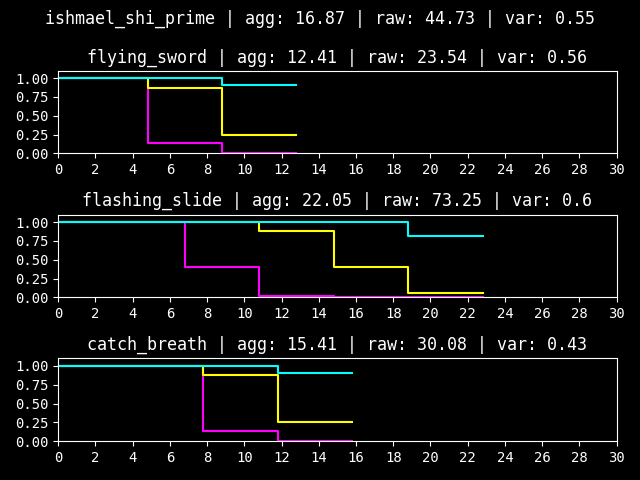
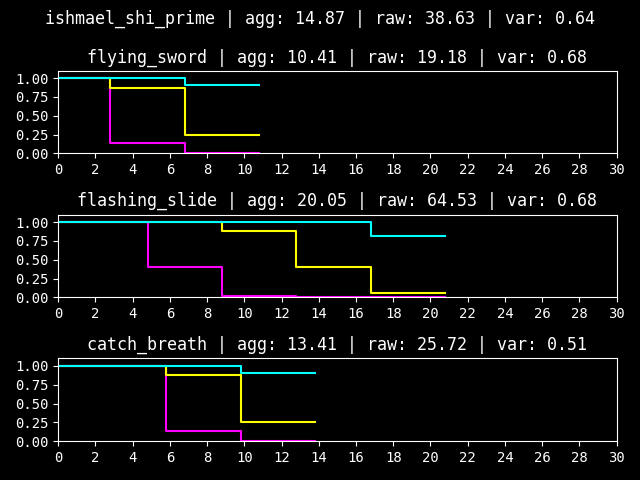
shi ish prime no snagharpoon

diff --git a/sinner.py b/sinner.py
@@ -47,9 +47,14 @@ class Sinner:
 		ax[2].set(ylim=(0, 1.1), xlim=(0, 30), yticks=np.arange(0, 1.1, 0.25), xticks=np.arange(0, 30.1, 2))
 		ax[2].set_title(f'{self.s3.name} | agg: {round(self.s3.aggregate, 2)} | raw: {round(self.s3.damage, 2)} | var: {round(self.s3.variance, 2)}')
 
-		self.aggregate = (2 * self.s1.aggregate + 2 * self.s2.aggregate + self.s3.aggregate) / 5
-		self.variance = (2 * self.s1.variance + 2 * self.s2.variance + self.s3.variance) / 5
-		self.damage = (2 * self.s1.damage + 2 * self.s2.damage + self.s3.damage) / 5
+		if self.name.endswith('_partial'):
+			self.aggregate = (2 * self.s1.aggregate + 2 * self.s2.aggregate) / 4
+			self.variance = (2 * self.s1.variance + 2 * self.s2.variance) / 4
+			self.damage = (2 * self.s1.damage + 2 * self.s2.damage) / 4
+		else:
+			self.aggregate = (2 * self.s1.aggregate + 2 * self.s2.aggregate + self.s3.aggregate) / 5
+			self.variance = (2 * self.s1.variance + 2 * self.s2.variance + self.s3.variance) / 5
+			self.damage = (2 * self.s1.damage + 2 * self.s2.damage + self.s3.damage) / 5
 		
 		fig.suptitle(self.gen_display_str())
 		fig.canvas.manager.set_window_title('Sinner Ultimate Scientific Analysis Model Of Generally Unknown Strategies')

diff --git a/main.py b/main.py
@@ -23,7 +23,7 @@ for file in files:
 	plt.savefig(f'charts/{sinner.name}.png')
 	plt.close()
 	sinners.append(sinner)
-	if not sinner.name.endswith('_weak') and not sinner.name.endswith('_prime'):
+	if not sinner.name.endswith('_weak') and not sinner.name.endswith('_prime') and not sinner.name.endswith('_partial'):
 		skills.append(sinner.s1)
 		skills.append(sinner.s2)
 		skills.append(sinner.s3)

diff --git a/index.md b/index.md
@@ -218,7 +218,7 @@ Cloud cutter.
 
 Contrary to intuition, G Gregor's clashes are virtually identical to Sevens Outis! This is plainly evident when comparing their roll charts and aggregates. The reason for this is, G Gregor has an entire 9 offense level over her, and a difference of 5 levels translates to 1 power in a clash. So even though Sevens Outis has an additional +2 power in every clash due to her skill effects, G Gregor just does that by default. So, in practice, if one of them can win a clash, it's very likely the other can as well. The purpose of this analogy is to emphasize that G Gregor is excellent at clashing. If he fails to win, which is relatively uncommon, his kit provides so much healing that he will generally be able to shrug off lost clashes with little to no consequence. This utility makes him better at pulling dangerous skills away from core DPS units than most other tanks, especially considering how they tend to be too slow to pull clashes. Furthermore, deliberately allowing him to get staggered and healing him up during low pressure effectively makes him immortal in later rounds, since he'll effectively have removed his own stagger thresholds. Piloting him feels like giving the team a regenerating frontal shield, enabling heavy damage payloads (e.g. Cloud Cutter) to land without risking a clash. Of course, he also enables Legerdemain spam, but, everyone knew that already. His numbers are great, he suffers no consequences, and he gives the team a huge amount of agency.
 
-If a weakness had to be chosen, it would be his damage. However, his raw damage is still higher than almost all of the units in lower tiers.
+Despite everything, his numbers aren't high enough for S tier.
 
 ---
 
@@ -269,9 +269,24 @@ The prime chart represents Don with Overbreathe's effect active. The activation 
 ![](charts/don_quixote_shi.png)
 ![](charts/don_quixote_shi_prime.png)
 
-Shi Don plays similarly to L Faust, where both have insanely high clash power but not enough damage to edge them into S tier. Shi Don exaggerates this behaviour, with even better clashes and worse damage. They both even have haste on S2 and an evade, causing them to behave extremely similarly. Shi Don's passive has a much less restrictive condition though, so obtaining haste from there is far more viable than L Faust's poise count requirement. Notably, she only has two stagger thresholds, making her more forgiving than intuition would suggest.
+Shi Don plays similarly to L Faust, where both have insanely high clash power but not enough damage to edge them into S tier. Shi Don exaggerates this behaviour, with even better clashes and worse damage. They both even have haste on S2 and an evade, causing them to behave extremely similarly. Shi Don's passive has a much less restrictive condition, so obtaining haste from there is far more viable than L Faust's poise count requirement. Notably, she only has two stagger thresholds, making her more forgiving than intuition would suggest.
 
 Terrible S1 aside, she also has worse damage than L Faust, and being marginally better at clashing doesn't quite compensate for that.
+
+---
+
+### A Tier: Ishmael - Shi Section 5
+
+The prime chart represents Ishmael with Flashing Strike's additional coins. Snagharpoon's passive is not included in the prime chart for ease of evaluating damage.
+
+![](charts/ishmael_shi.png)
+![](charts/ishmael_shi_prime.png)
+
+Above her health threshold, Shi Ishmael has the damage of Shi Don but not remotely as much clash power. However, dropping below half effectively gives her S tier numbers via a better Cloud Cutter. Having decent numbers on S1 provides a solid baseline damage output as well.
+
+Maintaining her prime state is impractical outside of Refraction Railway. Needing to go through at least one stagger forces a dead turn, and staying there often causes healing options to prioritize her, which may be awkward to manage. If one intends to play her without managing the threshold and trusting it to kick in when necessary, the other members of A tier may be more consistent options.
+
+Additionally, there is speculation that Shi Ishmael at UT2 may be more performant than Shi Ishmael at UT3. Since her S3 is not particularly strong, keeping it out of the skill pool may result in sleeker performance. A similar logic applies to KK Hong Lu.
 
 ---
 
@@ -284,7 +299,7 @@ Due to technical limitations, the normal chart should be used to evaluate clashe
 
 And so an interesting truth comes to light— Sevens Outis is generally worse at clashing than the low rarity clash god trio, and ties with G Gregor in terms of clash strength! But, she applies far more debuffs than the typical identity. Her presence in a team generally makes winning clashes for others easier, with the next turn paralysis on S1 and offense level down on S3. Having a high speed roll of 5-8, a high defense level of 41 and only one stagger threshold also allows her to take a similar role to G Gregor in pulling clashes and tanking the ones she loses.
 
-However, the damage attributed to her defense level down and weakness analyzed debuffs is generally not enough to compensate for her poor numbers, and having lots of effective health is generally not preferable to G Gregor's regen.
+However, the damage attributed to her defense level down and weakness analyzed debuffs is generally not enough to compensate for her poor numbers, and having lots of effective health is generally not preferable to G Gregor's regeneration.
 
 ---
 
@@ -292,9 +307,9 @@ However, the damage attributed to her defense level down and weakness analyzed d
 
 ![](charts/ryoshu_kurokumo.png)
 
-Above average rolls mean above average clashes and above average damage. Notably, she inflicts a healthy amount of bleed count, making the status effect far more impactful. But, having above average damage from statuses won't let her reach the damage contributed by S tier units anytime soon, and doubling down on more bleed just means invoking a greater opportunity cost.
+Above average rolls mean above average clashes and above average damage. Notably, she inflicts a healthy amount of bleed count, making the status effect far more impactful.
 
-Additionally, bleed is one of the more awkward damage oriented status effects, since it relies on the target to attack. Stacking a lot of bleed on a broken part or a staggered enemy that's about to die can feel mildly miserable. Also, KK Ryoshu has arguably has a bit of anti-synergy with KK Hong Lu, since it's dubious whether the extra bleed potency would kill the target faster than simply letting Cloud Cutter perform two extra hits. The other parts of her kit apply on the same turn and are relatively unimpactful. That being said, her numbers are still more than workable.
+But, having above average damage from statuses won't let her reach the damage contributed by S tier units anytime soon, and doubling down on more bleed just means invoking a greater opportunity cost. Additionally, bleed is one of the more awkward damage oriented status effects, since it relies on the target to attack. Stacking a lot of bleed on a broken part or a staggered enemy that's about to die can feel mildly miserable. Also, KK Ryoshu has arguably has a bit of anti-synergy with KK Hong Lu, since it's dubious whether the extra bleed potency would kill the target faster than simply letting Cloud Cutter perform two extra hits. The other parts of her kit apply on the same turn and are relatively unimpactful. That being said, her numbers are still more than workable.
 
 ---
 
@@ -341,7 +356,7 @@ The placement of KK Hong Lu in S tier was heavily contested by Nex and heavily d
 
 LCB Outis and LCB Hong Lu used to be firmly placed in A tier by LOWERCASE, but that was contested by Kervina and Nex. Both have been dropped to B tier to make A tier more exclusive. (This is also why they are the only B tier units with writeups.)
 
-Shi Ishmael used to be in high B tier but was moved to low A tier after consulting the Project Moon community server. The fact that she shares the same raw as W Don without needing her health threshold, alongside her prime performance, was enough to barely edge her in. That being said, individual players are encouraged to evaluate whether sacrificing the stability that high clash power and speed brings makes her worth prioritizing her over the other A tier units. (This is also why she currently lacks a writeup.)
+Shi Ishmael used to be in high B tier but was moved to low A tier after discussion in the Project Moon community server. The fact that she shares the same raw as W Don without needing her health threshold, alongside her prime performance, was enough to barely edge her in. That being said, individual players are encouraged to evaluate whether sacrificing the stability that high clash power and speed brings makes her worth prioritizing her over the other A tier units.
 
 Blade Outis only deserves the yellow badge if her support passive works when attacking broken abnormality parts. This still requires testing.
 
